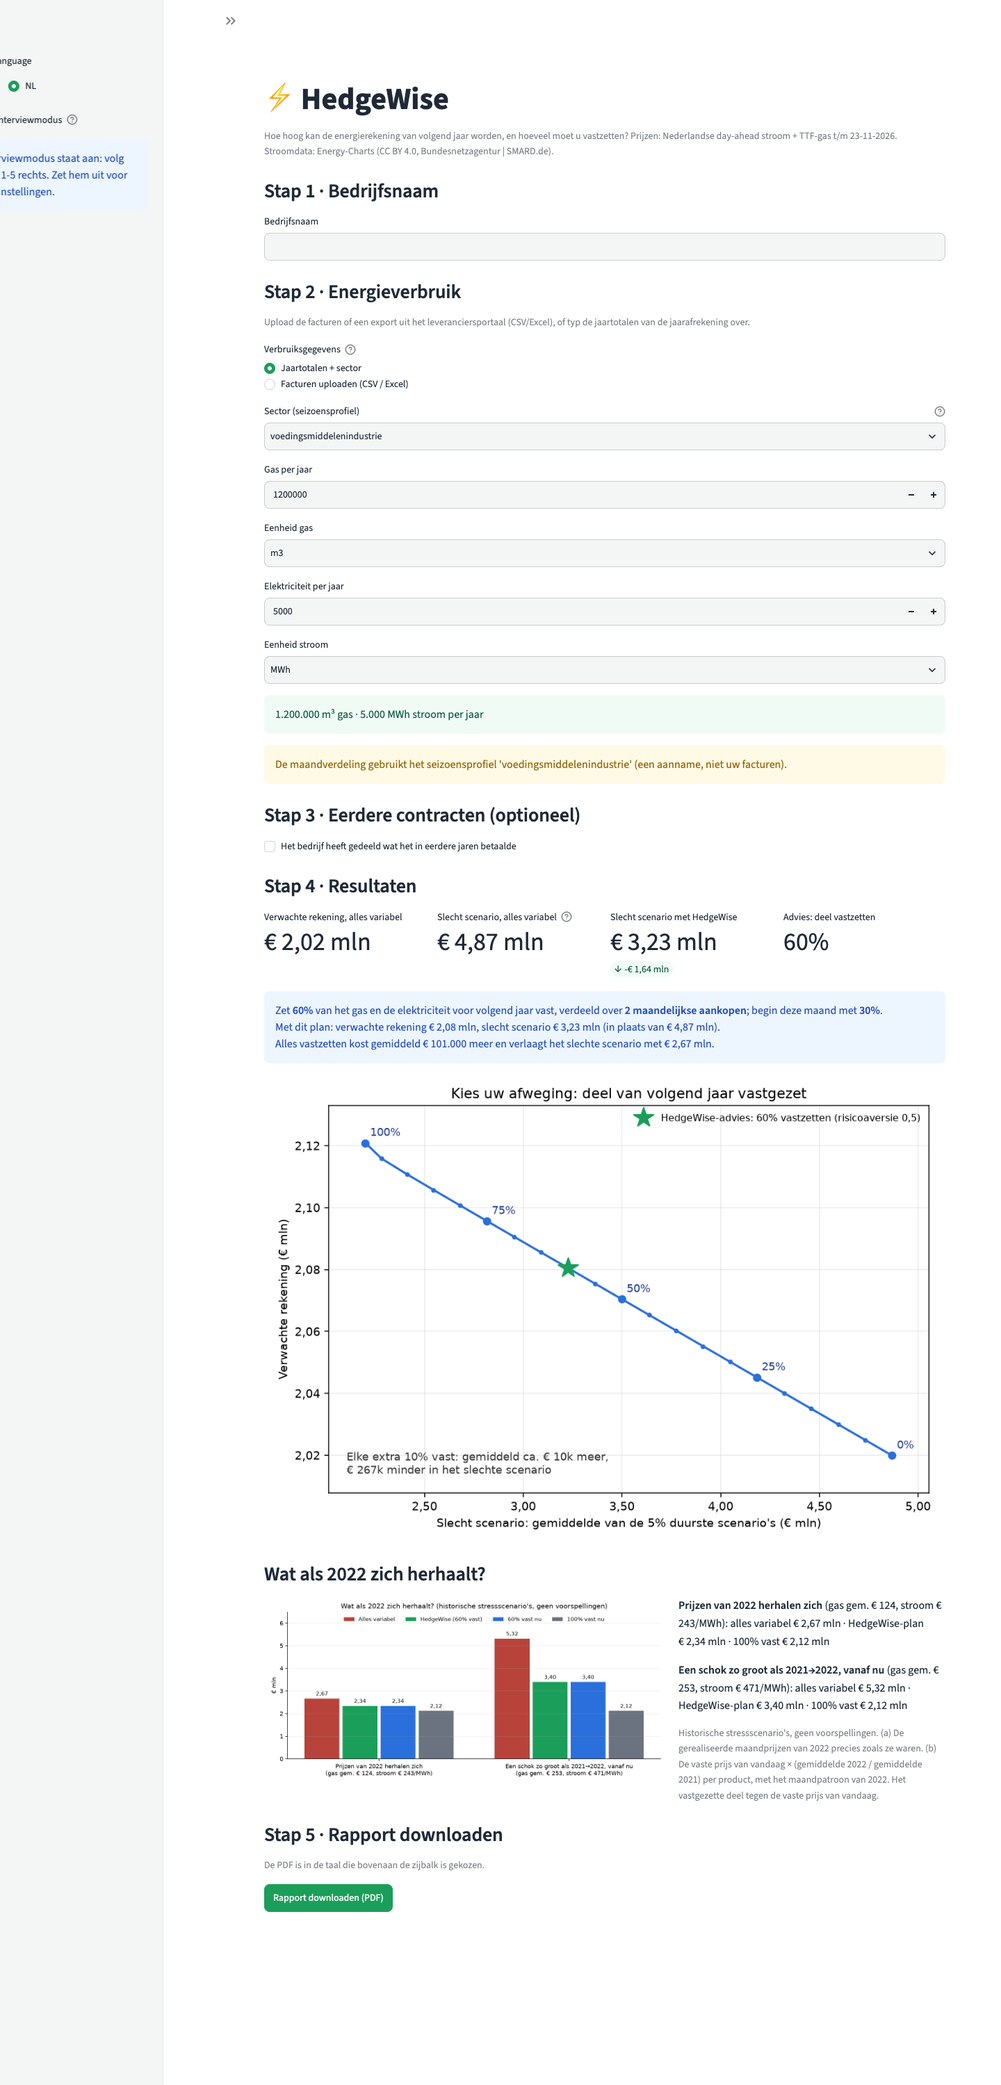
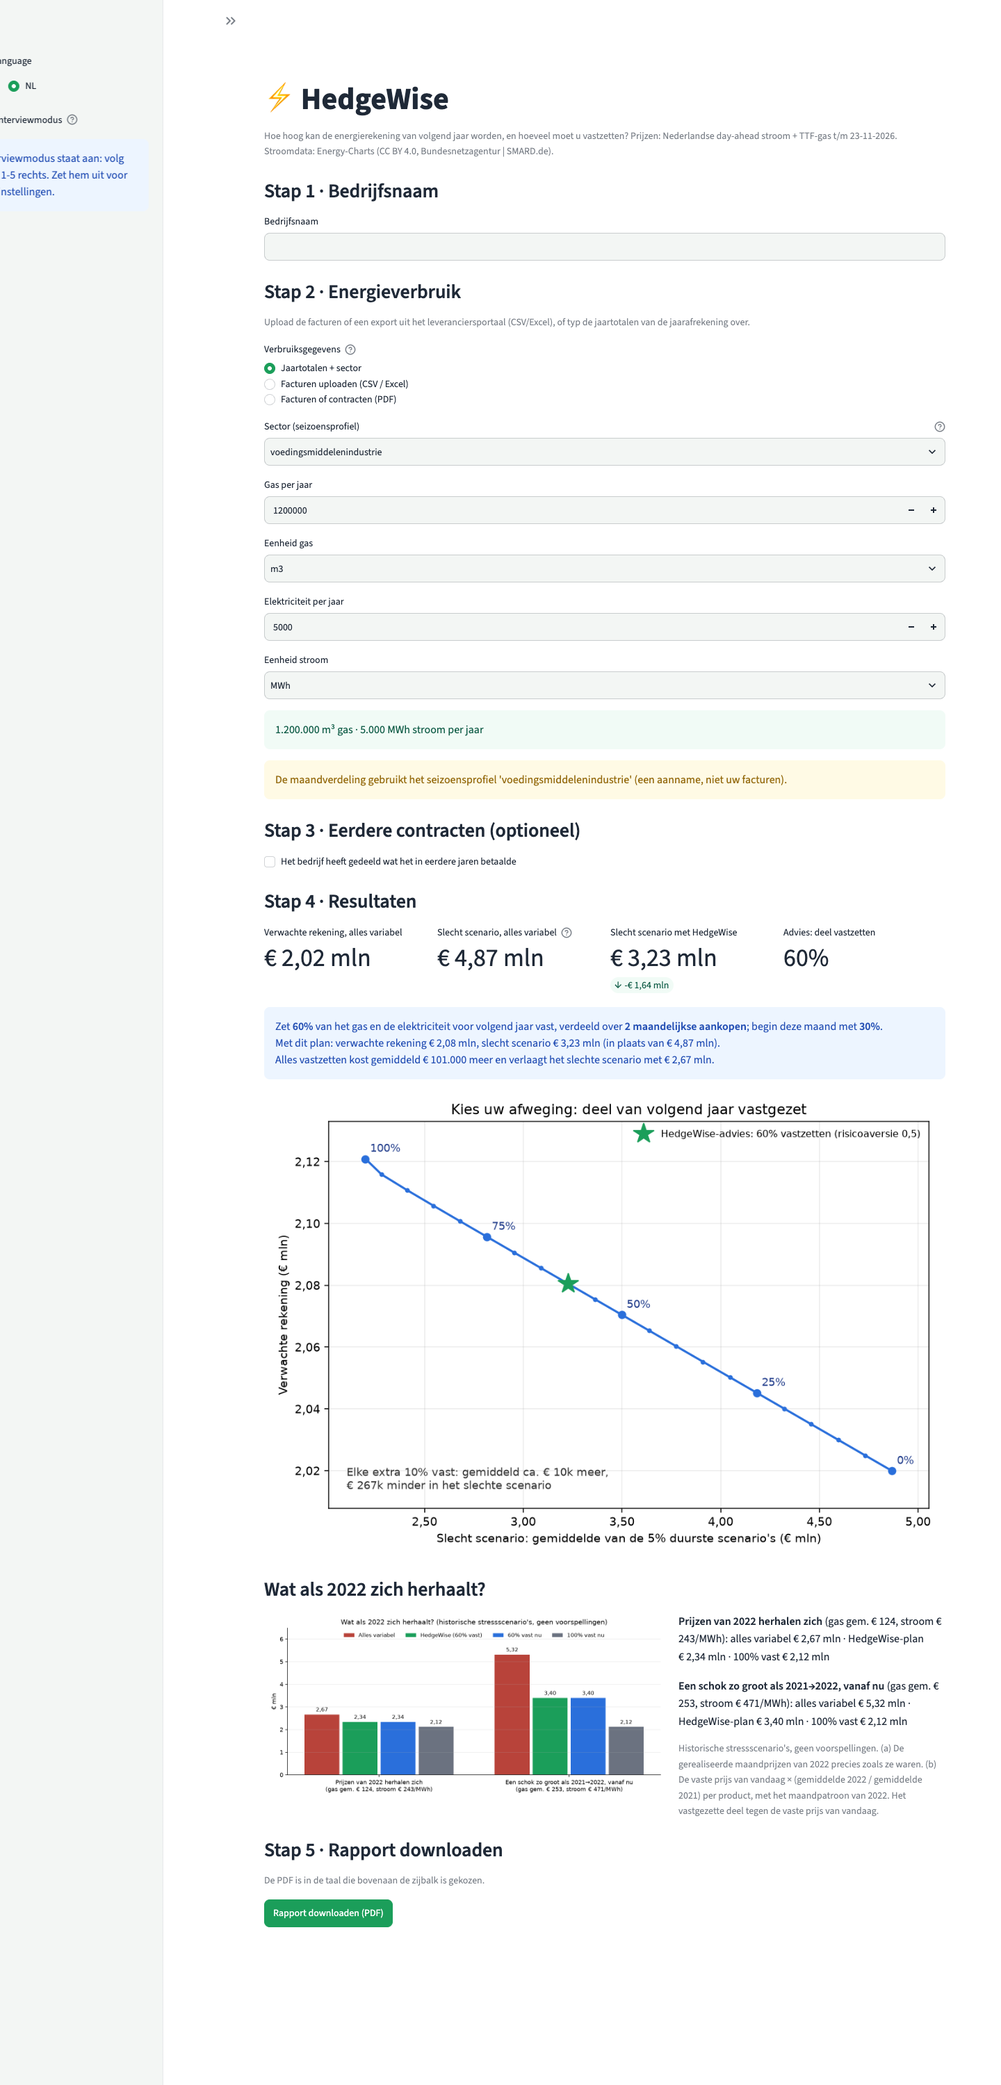
Bill reading step 4: app option 'Invoices or contracts (PDF)' (interview flow and sidebar): upload -> local reading, or AI only when a key is set and the consent box is ticked -> editable table with source quotes and flags -> Confirm -> company_input profile; found prices pre-fill the past-contracts

diff --git a/app.py b/app.py
@@ -105,11 +105,20 @@ def report_pdf(
 # --------------------------------------------------------------------------------------------
 def consumption_input(T: dict, name: str) -> tuple[hw.Company | None, list[str]]:
     """Yearly totals + sector, or an uploaded bill file with the detected columns. (None, []) = waiting for a file."""
-    source = st.radio(T["source"], [T["src_yearly"], T["src_upload"]], help=T["source_help"], key="source")
+    # option values are language-independent (only the labels are translated), so switching language keeps them
+    source = st.radio(
+        T["source"],
+        ["yearly", "upload", "pdf"],
+        format_func=lambda k: T[f"src_{k}"],
+        help=T["source_help"],
+        key="source",
+    )
     sector = st.selectbox(
         T["sector"], ci.SECTORS, help=T["sector_help"], key="sector", format_func=lambda x: sector_label(x, LANG)
     )
-    if source == T["src_upload"]:
+    if source == "pdf":
+        return pdf_input(T, name, sector)
+    if source == "upload":
         up = st.file_uploader(T["upload"], type=["csv", "txt", "xlsx", "xls"], key="bills")
         if up is None:
             st.info(T["upload_wait"])
@@ -155,6 +164,83 @@ def consumption_input(T: dict, name: str) -> tuple[hw.Company | None, list[str]]
         except ValueError as e:
             st.error(str(e))
             return None, []
+    company = res.company
+    st.success(
+        T["volumes"].format(gas=number(sum(company.gas_m3), LANG), power=number(sum(company.power_kwh) / 1e3, LANG))
+    )
+    for n_ in res.warnings:
+        st.warning(warning_text(n_, LANG))
+    return company, res.warnings
+
+
+def pdf_input(T: dict, name: str, sector: str) -> tuple[hw.Company | None, list[str]]:
+    """Invoices/contracts (PDF) -> editable table with source quotes -> Confirm -> consumption profile.
+    The AI service is offered only when a key is set, and used only when the box is ticked."""
+    import os
+
+    from hedgewise import extract as xt
+
+    files = st.file_uploader(T["pdf_upload"], type=["pdf"], accept_multiple_files=True, key="pdfs")
+    if not files:
+        st.info(T["upload_wait"])
+        return None, []
+    consent = False
+    if os.environ.get("ANTHROPIC_API_KEY"):
+        consent = st.checkbox(T["pdf_consent"], False, key="pdf_consent")
+    else:
+        st.caption(T["pdf_no_key"])
+    sig = (tuple((f.name, f.size) for f in files), consent)
+    if st.session_state.get("pdf_sig") != sig:  # read once per set of files (and consent choice)
+        with st.spinner(T["pdf_reading"]):
+            exs = [xt.extract(f.getvalue(), f.name, consent=consent) for f in files]
+        st.session_state.update(pdf_sig=sig, pdf_exs=exs, pdf_confirmed=None)
+    exs = st.session_state["pdf_exs"]
+    for ex in exs:
+        st.caption(T["pdf_engine"].format(file=ex.source, engine="AI (Anthropic)" if ex.engine == "ai" else "rules"))
+        for w in ex.warnings:
+            st.warning(w)
+    for flag in xt.validate(exs):
+        st.warning(flag)
+    st.caption(T["pdf_check"])
+    table = xt.monthly_table(exs)
+    if table.empty:
+        st.info(T["pdf_empty"])
+        table = pd.DataFrame(
+            {
+                "month": [""],
+                "gas_m3": [None],
+                "power_kwh": [None],
+                "source": [""],
+                "page": [None],
+                "quote": [""],
+                "confidence": [None],
+            }
+        )
+    edited = st.data_editor(
+        table,
+        num_rows="dynamic",
+        width="stretch",
+        key="pdf_table",
+        disabled=["source", "page", "quote", "confidence"],
+        column_config={"quote": st.column_config.TextColumn(width="large")},
+    )
+    contracts = xt.contracts_table(exs)
+    if len(contracts):
+        st.caption(T["pdf_contracts"])
+        contracts = st.data_editor(contracts, width="stretch", key="pdf_contracts", disabled=["source", "quote"])
+    if st.button(T["pdf_confirm"], type="primary", key="pdf_confirm_btn"):
+        st.session_state["pdf_confirmed"] = edited.to_json()
+        st.session_state["contracts_prefill"] = contracts.drop(columns=["source", "quote"]) if len(contracts) else None
+    if st.session_state.get("pdf_confirmed") != edited.to_json():  # not confirmed, or edited after confirming
+        st.info(T["pdf_wait"])
+        return None, []
+    try:
+        clean = edited.dropna(subset=["month"]).query("month != ''")
+        res = xt.confirmed_company(clean, name, sector)
+    except ValueError as e:
+        st.error(str(e))
+        return None, []
+    st.success(T["pdf_confirmed"])
     company = res.company
     st.success(
         T["volumes"].format(gas=number(sum(company.gas_m3), LANG), power=number(sum(company.power_kwh) / 1e3, LANG))
@@ -240,6 +326,9 @@ def audit_ui(company: hw.Company, T: dict, lang: str) -> None:
             for k in example
         ]
     )
+    pre = st.session_state.get("contracts_prefill")
+    if pre is not None and len(pre):  # prices read from the confirmed PDFs (step 2)
+        default_rows = pre.rename(columns=cols)
     up_c = st.file_uploader(T["audit_upload"], type=["csv", "txt", "xlsx", "xls"], key="audit_upload")
     if up_c is not None:
         try:
@@ -387,19 +476,19 @@ with st.sidebar:
 
     st.header(T["decision_h"])
     dates = {
-        T["date_today"]: str(df.index.max().date()),
-        T["date_2021"]: "2021-06-30",
-        T["date_2022"]: "2022-06-30",
-        T["date_custom"]: None,
+        "date_today": str(df.index.max().date()),
+        "date_2021": "2021-06-30",
+        "date_2022": "2022-06-30",
+        "date_custom": None,
     }
-    choice = st.selectbox(T["date"], list(dates), key="date")
+    choice = st.selectbox(T["date"], list(dates), format_func=lambda k: T[k], key="date")
     as_of = dates[choice] or str(
         st.date_input(
             T["as_of"], pd.Timestamp("2021-09-30"), min_value=pd.Timestamp("2020-01-31"), max_value=df.index.max()
         )
     )
-    mode = st.radio(T["goal"], [T["goal_balance"], T["goal_budget"]], key="goal")
-    if mode == T["goal_balance"]:
+    mode = st.radio(T["goal"], ["goal_balance", "goal_budget"], format_func=lambda k: T[k], key="goal")
+    if mode == "goal_balance":
         lam = st.slider(T["risk"], 0.0, 1.0, DEFAULT_RISK_AVERSION, 0.1, help=T["risk_help"], key="risk")
         budget = None
     else:

diff --git a/tools/screenshots.py b/tools/screenshots.py
@@ -17,6 +17,7 @@ import shutil
 import socket
 import struct
 import subprocess
+import sys
 import tempfile
 import time
 import urllib.request
@@ -25,12 +26,45 @@ from pathlib import Path
 CHROME = "/Applications/Google Chrome.app/Contents/MacOS/Google Chrome"
 OUT = Path(__file__).resolve().parents[1] / "docs" / "img"
 
-SHOTS = [  # (file, url query, text that must be on the page, page height)
-    ("01_dashboard_en.png", "", "Recommended share to fix", 2400),
-    ("02_dashboard_nl.png", "?lang=nl", "Advies: deel vastzetten", 2400),
-    ("03_interview_nl.png", "?lang=nl&mode=interview", "Stap 5", 3000),
-    ("04_interview_contracts_nl.png", "?lang=nl&mode=interview&contracts=example", "U betaalde", 4200),
+INVOICE = "2_eneco_annual_en.pdf"  # a FAKE document from tests/fake_invoices.py, written to a temp folder
+SHOTS = [  # (file, url query, text that must be on the page at the end, page height, steps before that)
+    ("01_dashboard_en.png", "", "Recommended share to fix", 2400, []),
+    ("02_dashboard_nl.png", "?lang=nl", "Advies: deel vastzetten", 2400, []),
+    ("03_interview_nl.png", "?lang=nl&mode=interview", "Stap 5", 3000, []),
+    ("04_interview_contracts_nl.png", "?lang=nl&mode=interview&contracts=example", "U betaalde", 4200, []),
+    (
+        "05_interview_pdf_nl.png",
+        "?lang=nl&mode=interview",
+        "Stap 5",
+        3400,
+        [
+            ("wait", "Stap 2"),
+            ("click", "Facturen of contracten (PDF)"),
+            ("wait", "meerdere tegelijk"),
+            ("upload", INVOICE),
+            ("wait", "Bevestig deze getallen"),
+            ("click", "Bevestig deze getallen"),
+            ("wait", "Bevestigd"),
+        ],
+    ),
 ]
+
+
+def _wait(ws: WS, text: str, timeout: float = 240) -> bool:
+    """Wait until the page shows `text` and Streamlit has finished running."""
+    t0 = time.time()
+    while time.time() - t0 < timeout:
+        txt = ws.call("Runtime.evaluate", expression="document.body.innerText", returnByValue=True)
+        txt = txt.get("result", {}).get("value", "") or ""
+        running = ws.call(
+            "Runtime.evaluate",
+            expression="!!document.querySelector('[data-testid=stStatusWidget]')",
+            returnByValue=True,
+        )["result"]["value"]
+        if text in txt and not running:
+            return True
+        time.sleep(1)
+    return False
 
 
 class WS:
@@ -109,26 +143,38 @@ def main() -> None:
                 break
             except OSError:
                 time.sleep(0.2)
-        for name, query, wait_for, height in SHOTS:
+        invoices = tempfile.mkdtemp()
+        sys.path.insert(0, str(Path(__file__).resolve().parents[1] / "tests"))
+        import fake_invoices
+
+        fake = fake_invoices.make_all(Path(invoices))
+        for name, query, wait_for, height, steps in SHOTS:
             req = urllib.request.Request("http://localhost:9333/json/new?about:blank", method="PUT")
             tab = json.loads(urllib.request.urlopen(req).read())
             ws = WS(tab["webSocketDebuggerUrl"])
             ws.call("Emulation.setDeviceMetricsOverride", width=1440, height=height, deviceScaleFactor=1, mobile=False)
             ws.call("Emulation.setEmulatedMedia", features=[{"name": "prefers-color-scheme", "value": "light"}])
             ws.call("Page.navigate", url=f"http://localhost:{args.port}/{query}")
-            t0, ok = time.time(), False
-            while time.time() - t0 < 240:
-                r = ws.call("Runtime.evaluate", expression="document.body.innerText", returnByValue=True)
-                txt = r.get("result", {}).get("value", "") or ""
-                running = ws.call(
-                    "Runtime.evaluate",
-                    expression="!!document.querySelector('[data-testid=\"stStatusWidget\"]')",
-                    returnByValue=True,
-                )["result"]["value"]
-                if wait_for in txt and not running:
-                    ok = True
-                    break
-                time.sleep(1)
+            t0 = time.time()
+            for kind, arg in steps:
+                if kind == "wait":
+                    _wait(ws, arg)
+                elif kind == "click":  # the innermost element showing exactly this text
+                    _wait(ws, arg)
+                    ws.call(
+                        "Runtime.evaluate",
+                        expression=(
+                            "(() => { const els = [...document.querySelectorAll('label, button, p, span')]"
+                            f".filter(e => e.innerText.trim() === {json.dumps(arg)});"
+                            " els[els.length - 1].click(); })()"
+                        ),
+                    )
+                    time.sleep(1)
+                elif kind == "upload":
+                    doc = ws.call("DOM.getDocument", depth=-1)
+                    node = ws.call("DOM.querySelector", nodeId=doc["root"]["nodeId"], selector="input[type=file]")
+                    ws.call("DOM.setFileInputFiles", files=[str(fake[arg])], nodeId=node["nodeId"])
+            ok = _wait(ws, wait_for)
             time.sleep(3)  # let images finish
             png = ws.call("Page.captureScreenshot", format="png", captureBeyondViewport=True)["data"]
             (OUT / name).write_bytes(base64.b64decode(png))
@@ -137,6 +183,8 @@ def main() -> None:
     finally:
         chrome.terminate()
         shutil.rmtree(prof, ignore_errors=True)
+        if "invoices" in locals():
+            shutil.rmtree(invoices, ignore_errors=True)
 
 
 if __name__ == "__main__":

diff --git a/hedgewise/app_text.py b/hedgewise/app_text.py
@@ -23,6 +23,21 @@ UI = {
         "source": "Consumption data",
         "src_yearly": "Yearly totals + sector",
         "src_upload": "Upload bills (CSV / Excel)",
+        "src_pdf": "Invoices or contracts (PDF)",
+        "pdf_upload": "Invoices, annual statements or supplier contracts (PDF; several at once)",
+        "pdf_consent": "Send these documents to the AI service (Anthropic) to read them. Only with the company's "
+        "permission: bills are confidential.",
+        "pdf_no_key": "AI reading is off (no ANTHROPIC_API_KEY); documents are read on this computer with simple "
+        "rules.",
+        "pdf_reading": "Reading the documents ...",
+        "pdf_check": "Check every number against the document (the quote shows where it came from), correct it in "
+        "the table, then confirm. Nothing is used before you confirm.",
+        "pdf_engine": "{file}: read with {engine}",
+        "pdf_contracts": "Prices found (these go to 'past contracts'; the share is set to 100%: check it)",
+        "pdf_confirm": "Confirm these numbers",
+        "pdf_confirmed": "Confirmed. HedgeWise now uses these monthly volumes.",
+        "pdf_wait": "Check the table and click 'Confirm these numbers'.",
+        "pdf_empty": "No monthly consumption was found. Enter the numbers in the table, or use yearly totals.",
         "source_help": "Upload 12-24 months of bills or a supplier-portal export, or just enter yearly totals.",
         "sector": "Sector (seasonal profile)",
         "sector_help": "Used to spread yearly totals over the months and to fill 1-3 missing months. "
@@ -144,6 +159,22 @@ UI = {
         "source": "Verbruiksgegevens",
         "src_yearly": "Jaartotalen + sector",
         "src_upload": "Facturen uploaden (CSV / Excel)",
+        "src_pdf": "Facturen of contracten (PDF)",
+        "pdf_upload": "Facturen, jaarafrekeningen of leverancierscontracten (PDF; meerdere tegelijk)",
+        "pdf_consent": "Stuur deze documenten naar de AI-dienst (Anthropic) om ze te lezen. Alleen met toestemming "
+        "van het bedrijf: facturen zijn vertrouwelijk.",
+        "pdf_no_key": "Lezen met AI staat uit (geen ANTHROPIC_API_KEY); de documenten worden op deze computer met "
+        "eenvoudige regels gelezen.",
+        "pdf_reading": "Documenten lezen ...",
+        "pdf_check": "Controleer elk getal met het document (het citaat laat zien waar het vandaan komt), verbeter "
+        "het in de tabel en bevestig. Niets wordt gebruikt voordat u bevestigt.",
+        "pdf_engine": "{file}: gelezen met {engine}",
+        "pdf_contracts": "Gevonden prijzen (die gaan naar 'eerdere contracten'; het aandeel staat op 100%: "
+        "controleer dat)",
+        "pdf_confirm": "Bevestig deze getallen",
+        "pdf_confirmed": "Bevestigd. HedgeWise gebruikt nu deze maandvolumes.",
+        "pdf_wait": "Controleer de tabel en klik op 'Bevestig deze getallen'.",
+        "pdf_empty": "Er is geen maandverbruik gevonden. Vul de getallen in de tabel in, of gebruik jaartotalen.",
         "source_help": "Upload 12-24 maanden facturen of een export uit het leveranciersportaal, of vul alleen "
         "jaartotalen in.",
         "sector": "Sector (seizoensprofiel)",

diff --git a/tests/test_app.py b/tests/test_app.py
@@ -35,7 +35,7 @@ def test_sector_and_upload_modes():
     at = _app()
     at.sidebar.selectbox(key="sector").select("offices").run()
     assert not at.exception and any("offices" in w.value for w in at.sidebar.warning)
-    at.sidebar.radio(key="source").set_value("Upload bills (CSV / Excel)").run()
+    at.sidebar.radio(key="source").set_value("upload").run()
     assert not at.exception and at.sidebar.info
 
 
@@ -79,3 +79,14 @@ def test_green_investments_section():
     assert "+ solar 1 MWp: expected bill" in md and "+ PPA 40%: expected bill" in md
     at.radio(key="lang").set_value("NL").run()
     assert not at.exception and "+ zon 1 MWp: verwachte rekening" in " ".join(m.value for m in at.markdown)
+
+
+def test_invoice_pdf_route_waits_for_files_and_confirmation():
+    at = _app()
+    at.toggle(key="interview").set_value(True).run()
+    at.radio(key="source").set_value("pdf").run()
+    assert not at.exception
+    assert any("Fill in step 2 first" in i.value for i in at.info)  # no file yet: nothing is used
+    at.radio(key="lang").set_value("NL").run()
+    assert not at.exception and at.radio(key="source").value == "pdf"  # the choice survives the language switch
+    assert "Facturen of contracten (PDF)" in at.radio(key="source").options

diff --git a/README.md b/README.md
@@ -48,6 +48,7 @@ python audit.py data/audit_example.csv   # procurement audit: your past contract
 python report.py --audit data/audit_example.csv   # ... adds the audit as page 2 of the PDF
 python report.py --green-solar-kwp 1000 --green-battery-kwh 1000 --green-ppa-share 0.4   # + one green-investment line
 python validation.py               # out-of-sample model validation (~1-2 min) -> METHODOLOGY.md
+python extract.py bill.pdf [--ai]  # read PDF invoices/contracts (--ai = consent to send them to the AI service)
 python market.py                  # market size from CBS open data -> MARKET.md numbers (--offline: data/cbs/ snapshot)
 python robustness.py --histories 200   # synthetic 8-year futures (~25 min on 4 cores; resumable, see below)
 python download_data.py --extended && python backtest.py --market DE-LU --years 2020 2021 2022 2023 2024 2025
@@ -85,6 +86,7 @@ below works as before. When imported (`import backtest`, `import hedgewise_model
 | `hedgewise/market.py`, `MARKET.md` | Market size from CBS StatLine (tables 81589NED, 81578NED, 83583NED, 83989NED; snapshot in `data/cbs/` for offline runs): target companies NL and Limburg, their energy use and spend, revenue at 1/5/10% adoption |
 | `hedgewise/app_text.py`, `hedgewise/texts.py` | Every dashboard text in English and Dutch; the PDF's sentences and number formats (shared by app and PDF) |
 | `TEAM_GUIDE.md`, `tools/screenshots.py` | Guide for the (non-coding) team: interviews, what the numbers mean, allowed claims, 15 hard questions; screenshots made with headless Chrome |
+| `hedgewise/extract.py` | Reads PDF invoices/statements/contracts (NL/EN) into monthly volumes, prices and dates with page + quote + confidence; engine (a) pdfplumber + rules (local), engine (b) Anthropic API with a strict JSON schema only with `ANTHROPIC_API_KEY` and the user's consent; plausibility flags; a person confirms in the app before anything is used. AI only reads, never advises |
 | `hedgewise/robustness.py` | Strategies on synthetic 8-year futures (model, block bootstrap, 3 named stress paths). Runs in chunks of 20 histories, each saved to `output/robustness_chunks/` as soon as it finishes (git-ignored); rerunning the same command resumes, and at most 4 worker processes are used |
 | `hedgewise/provenance.py` | Writes config hash, data hashes and data date range into every output |
 | `hedgewise/settings.py`, `config.py`, `naming.py`, `cli.py`, `_types.py` | Settings from config, config loader, output names, model CLI, type aliases |

diff --git a/TEAM_GUIDE.md b/TEAM_GUIDE.md
@@ -33,6 +33,19 @@ With interview mode on, the page shows five steps and hides all model settings.
    * **Upload bills**: a CSV or Excel file with one row per month (a supplier-portal export works). HedgeWise finds
      the date, gas and power columns and their units itself; check what it found in the boxes that appear. If 1–3
      months are missing, it fills them in and says so; with more missing it asks for more data.
+   * **Invoices or contracts (PDF)**: upload one or more PDF bills, annual statements or supplier contracts.
+     HedgeWise reads the monthly gas and power use, prices and contract dates and shows them in a table, each with
+     the sentence it was read from. **Check every number against the document, correct it in the table, then
+     click "Bevestig deze getallen / Confirm these numbers".** Nothing is used before you confirm. Prices found go
+     to step 3 (check the share: it's set to 100%). Yellow notes flag months that look wrong (3× the usual
+     month, missing months, the same month in two documents).
+     By default the PDFs are read on the computer itself, with simple rules: a scanned (photographed) bill can't be
+     read that way, so type its numbers in. If the app has an AI key, a box appears to send the documents to the
+     AI service (Anthropic) for better reading. **Tick it only if the company agrees: bills are confidential.** The
+     AI only reads; it never gives advice.
+     **Never put a real company's documents in the project folder** (or only in `data/private/`, which is never
+     uploaded to GitHub).
+
    The green line shows the yearly totals it will use. **Read them out to the interviewee and check them.**
 3. **Past contracts (optional)**: see section 3.
 4. **Results** (Resultaten) appear by themselves: see section 4.
@@ -156,5 +169,7 @@ about 5 points with the number of scenarios; that's noise, not a different view.
 * **The app is slow the first time:** normal (about 10 s). The past-contracts comparison takes about a minute the
   first time.
 * **Anything else:** take a screenshot and send it to Bruno.
+
+![Reading a PDF (a fake document), Dutch](docs/img/05_interview_pdf_nl.png)
 
 *Screenshots were taken with `python tools/screenshots.py` (headless Chrome) from the app as of 23 Nov 2026.*
